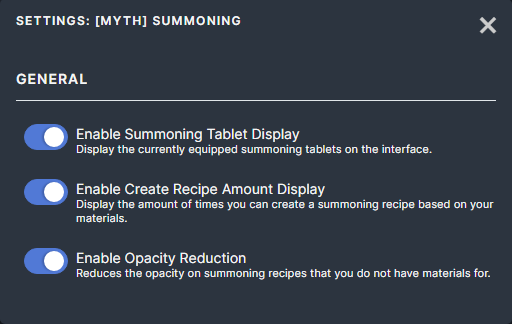
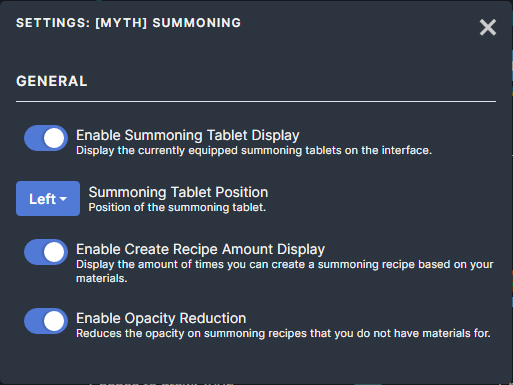
add ability to move status into center of screen

diff --git a/src/app/status/status.ts b/src/app/status/status.ts
@@ -11,7 +11,10 @@ interface RendererContext {
     summon1: SummoningStatus;
     summon2: SummoningStatus;
     isEnabled: boolean;
+    position: Position;
 }
+
+type Position = 'left' | 'center';
 
 enum Type {
     Summon1 = 'Summon1',
@@ -22,20 +25,48 @@ export class Status implements Component {
     public readonly template = 'status/status.html';
     public readonly settings = {
         section: 'General',
-        config: {
-            type: 'switch',
-            name: 'status',
-            label: 'Enable Summoning Tablet Display',
-            hint: 'Display the currently equipped summoning tablets on the interface.',
-            default: true,
-            onChange: (value: boolean) => {
-                this.renderer.update({
-                    summon1: this.getSummon(Type.Summon1),
-                    summon2: this.getSummon(Type.Summon2),
-                    isEnabled: value
-                });
+        config: [
+            {
+                type: 'switch',
+                name: 'status',
+                label: 'Enable Summoning Tablet Display',
+                hint: 'Display the currently equipped summoning tablets on the interface.',
+                default: true,
+                onChange: (value: boolean) => {
+                    this.renderer.update({
+                        summon1: this.getSummon(Type.Summon1),
+                        summon2: this.getSummon(Type.Summon2),
+                        isEnabled: value,
+                        position: this.position
+                    });
+                }
+            },
+            {
+                type: 'dropdown',
+                name: 'position',
+                label: 'Summoning Tablet Position',
+                hint: 'Position of the summoning tablet.',
+                default: 'left',
+                options: [
+                    {
+                        value: 'left',
+                        display: 'Left'
+                    },
+                    {
+                        value: 'center',
+                        display: 'Center'
+                    }
+                ],
+                onChange: (value: Position) => {
+                    this.renderer.update({
+                        summon1: this.getSummon(Type.Summon1),
+                        summon2: this.getSummon(Type.Summon2),
+                        isEnabled: this.isEnabled,
+                        position: value
+                    });
+                }
             }
-        }
+        ]
     };
 
     private readonly emptyIcon = 'assets/media/bank/misc_summon.png';
@@ -43,8 +74,12 @@ export class Status implements Component {
     private get isEnabled() {
         return (
             this.isVisible() &&
-            (this.context.settings.section(this.settings.section).get(this.settings.config.name) as boolean)
+            (this.context.settings.section(this.settings.section).get(this.settings.config[0].name) as boolean)
         );
+    }
+
+    private get position() {
+        return this.context.settings.section(this.settings.section).get(this.settings.config[1].name) as Position;
     }
 
     private readonly renderer = new Renderer(this.context).create<RendererContext>({
@@ -58,8 +93,10 @@ export class Status implements Component {
             summon1: { img: '', quantity: 0 },
             summon2: { img: '', quantity: 0 },
             isEnabled: false,
-            update({ isEnabled, summon1, summon2 }) {
+            position: 'left',
+            update({ isEnabled, position, summon1, summon2 }) {
                 this.isEnabled = isEnabled;
+                this.position = position;
                 this.summon1 = summon1;
                 this.summon2 = summon2;
             }
@@ -79,7 +116,8 @@ export class Status implements Component {
         return {
             summon1: this.getSummon(Type.Summon1),
             summon2: this.getSummon(Type.Summon2),
-            isEnabled: this.isEnabled
+            isEnabled: this.isEnabled,
+            position: this.position
         };
     }
 

diff --git a/src/app/status/status.html b/src/app/status/status.html
@@ -1,5 +1,5 @@
 <template id="myth-summoning-status">
-    <div id="summoning-status" v-if="isEnabled">
+    <div id="summoning-status" v-if="isEnabled" :class="position">
         <div class="summon summon-1">
             <img class="combat-equip-img border border-equip border-2x" v-bind:src="summon1.img" />
             <span class="overlay-item text-size-sm font-w600 text-white badge badge-danger">

diff --git a/src/app/status/status.scss b/src/app/status/status.scss
@@ -1,9 +1,16 @@
 #summoning-status {
     position: fixed;
     bottom: 10px;
-    left: 250px;
     display: flex;
     padding: 4px 0px;
+
+    &.left {
+        left: 250px;
+    }
+
+    &.center {
+        left: 50%;
+    }
 
     .summon {
         display: flex;
